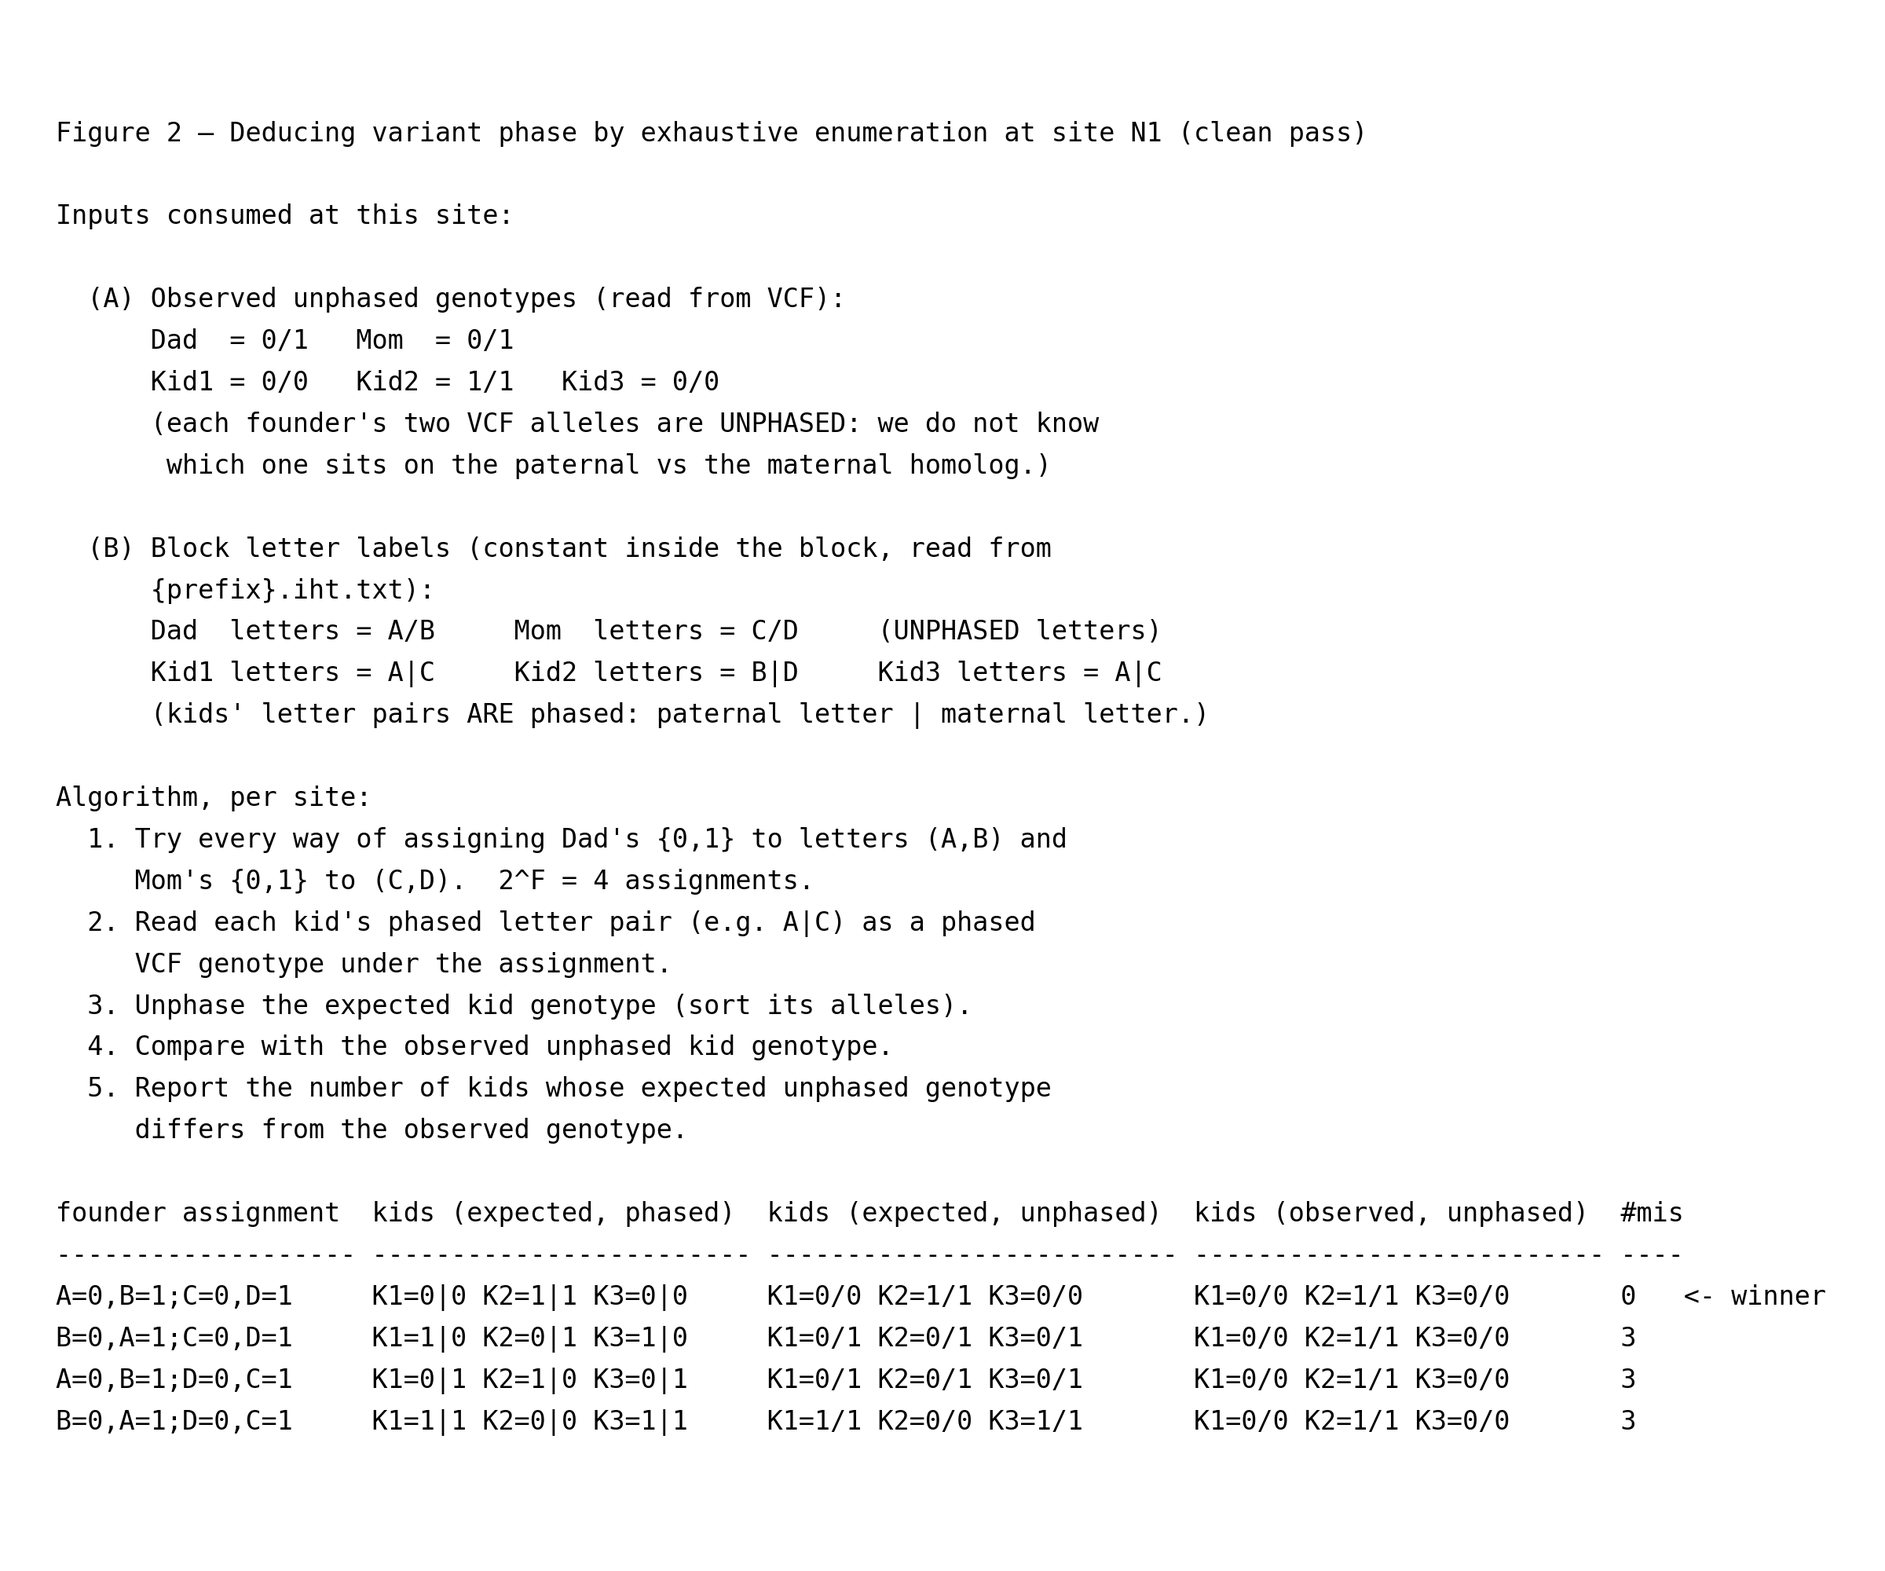
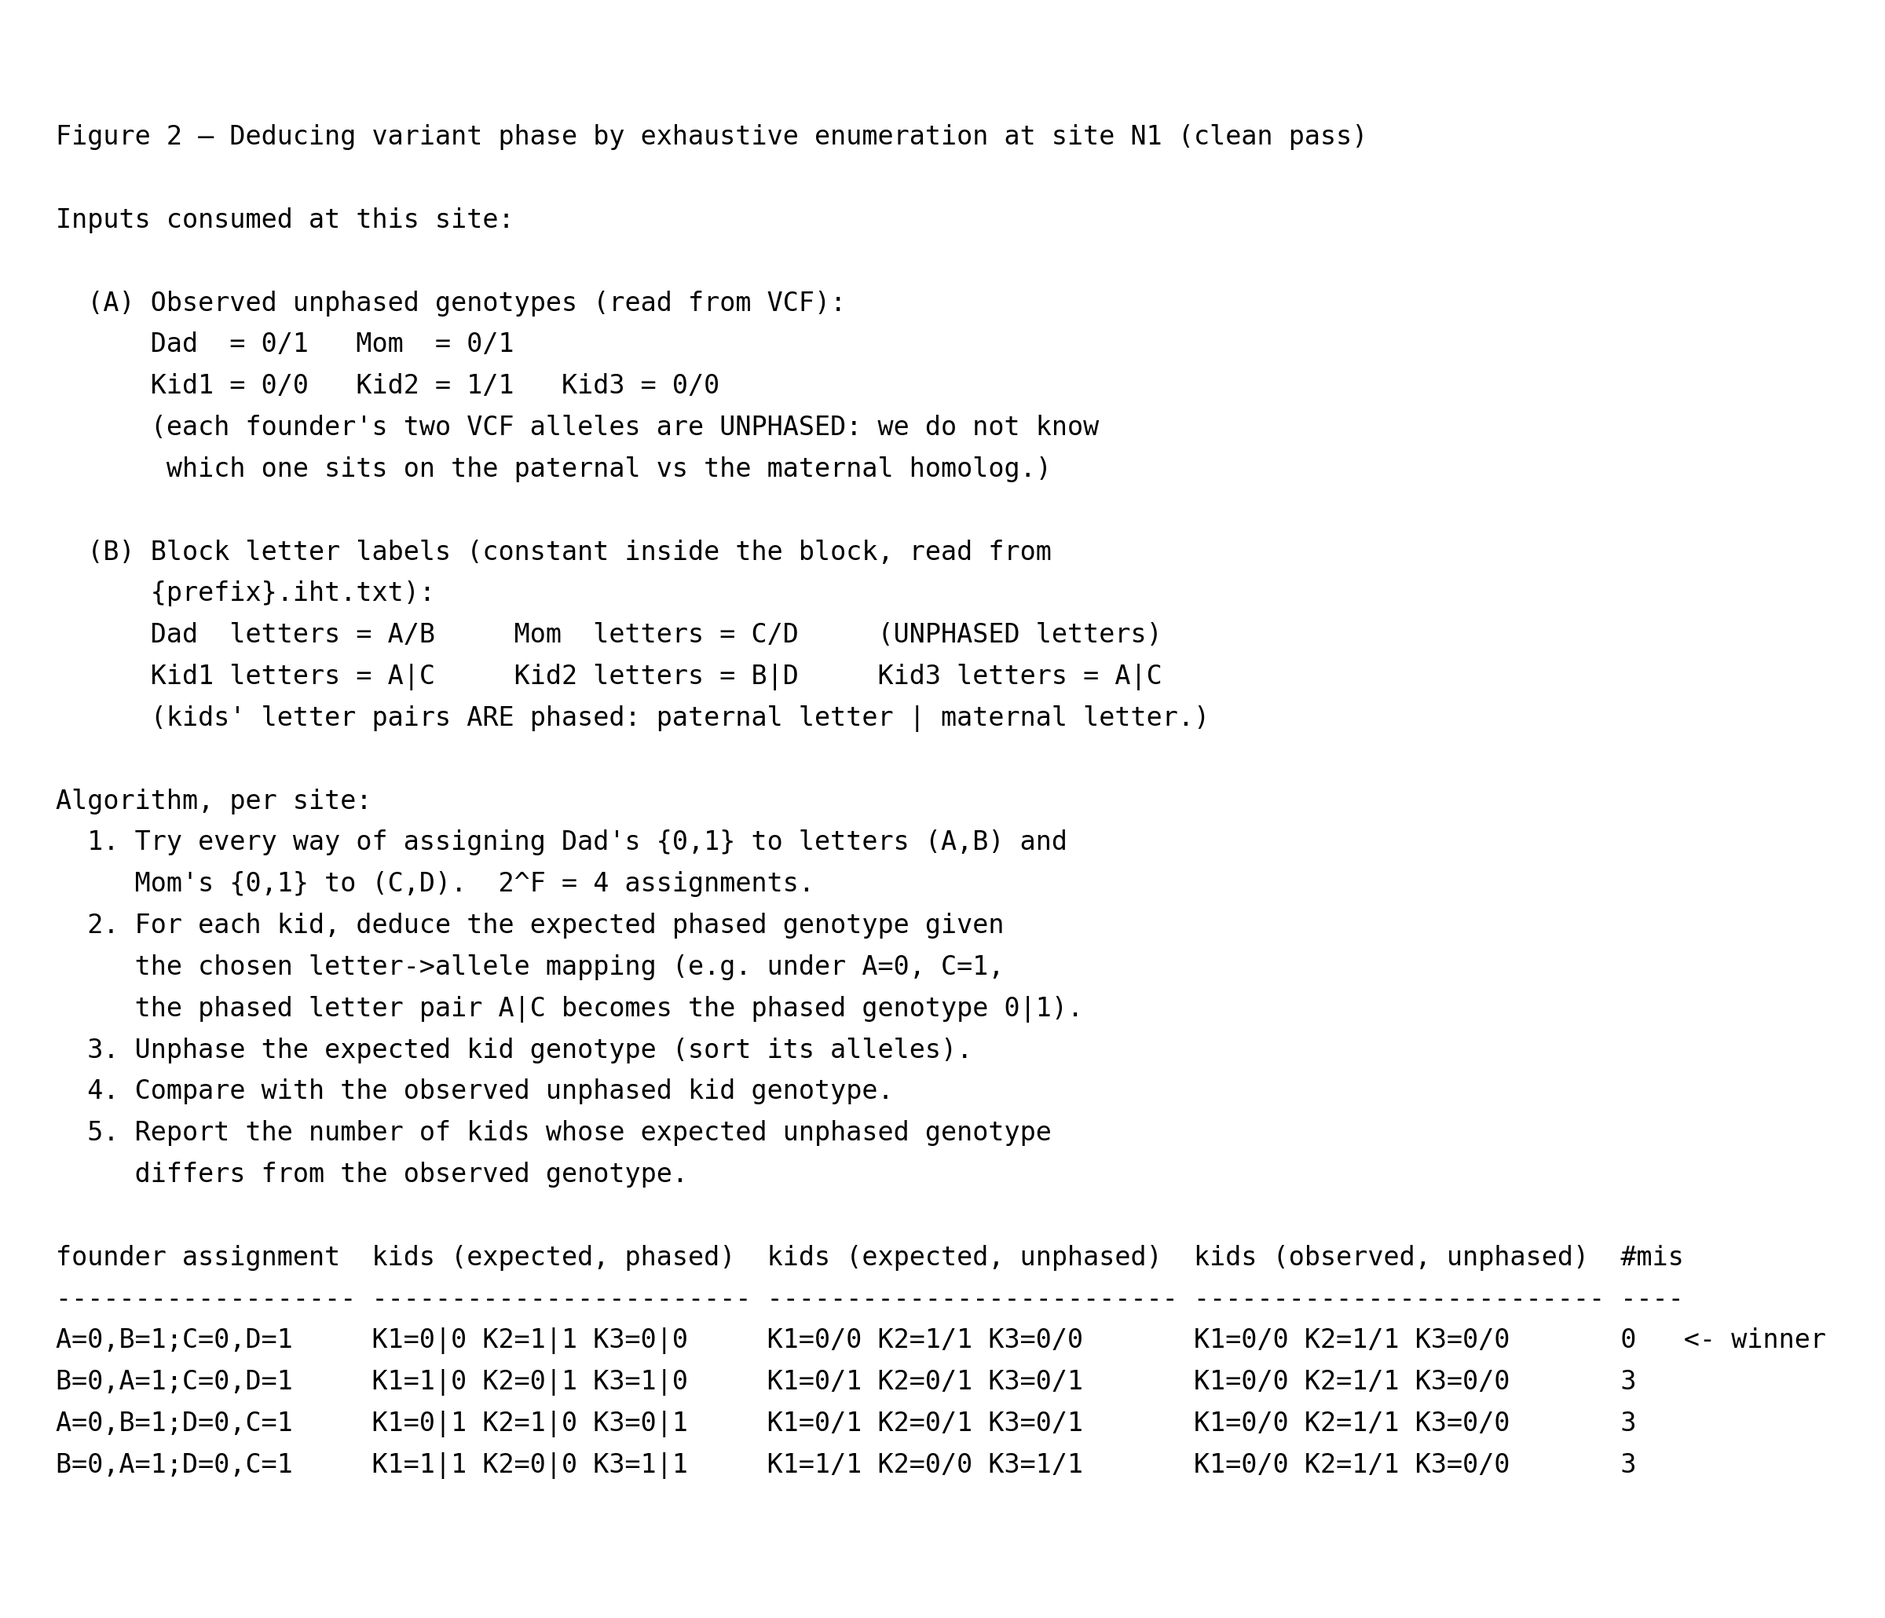
Spell out step 2 of the Fig 2 algorithm
Expand the terse "Read each kid's phased letter pair as a phased
VCF genotype under the assignment" into an explicit per-kid
deduction under the chosen letter->allele mapping, with a worked
example (A=0, C=1 => A|C becomes 0|1).

diff --git a/wiki/generate_wiki.py b/wiki/generate_wiki.py
@@ -2709,8 +2709,9 @@ def component_3_concordance(out_dir: Path) -> None:
         "Algorithm, per site:",
         "  1. Try every way of assigning Dad's {0,1} to letters (A,B) and",
         "     Mom's {0,1} to (C,D).  2^F = 4 assignments.",
-        "  2. Read each kid's phased letter pair (e.g. A|C) as a phased",
-        "     VCF genotype under the assignment.",
+        "  2. For each kid, deduce the expected phased genotype given",
+        "     the chosen letter->allele mapping (e.g. under A=0, C=1,",
+        "     the phased letter pair A|C becomes the phased genotype 0|1).",
         "  3. Unphase the expected kid genotype (sort its alleles).",
         "  4. Compare with the observed unphased kid genotype.",
         "  5. Report the number of kids whose expected unphased genotype",

diff --git a/wiki/concordance/concordance.md b/wiki/concordance/concordance.md
@@ -6,16 +6,16 @@ off. `gtg-ped-map` emits only founder letters, and only at informative
 sites; it never reconstructs the 0/1 allele sequence of any haplotype.
 That job belongs to `gtg-concordance`, which re-reads the VCF for each
 IHT block and phases **every** variant using the block's letter map.
-All line numbers refer to commit `3d13665`. As in the other
+All line numbers refer to commit `397fc75`. As in the other
 walkthrough pages, each function link is followed by its call site in
 the driver — `main()` in
-[`gtg_concordance.rs`](https://github.com/Platinum-Pedigree-Consortium/Platinum-Pedigree-Inheritance/blob/3d1366561ca04c4aaeb035beb59856a3b0c11296/code/rust/src/bin/gtg_concordance.rs#L315) — so you can step through
+[`gtg_concordance.rs`](https://github.com/Platinum-Pedigree-Consortium/Platinum-Pedigree-Inheritance/blob/397fc75a1de5793d88160177f0c1979e61eb0daa/code/rust/src/bin/gtg_concordance.rs#L315) — so you can step through
 the driver source in parallel with this walkthrough.
 
 The toy simulation reuses the [left half of the nuclear-family block](https://github.com/petermchale/Platinum-Pedigree-Inheritance/blob/main/wiki/nuclear_family/fig4_2.png)
 (Kid1=(A,C), Kid2=(B,D), Kid3=(A,C)) and adds two sites where both
 parents are heterozygous. These are NON-informative for `gtg-ped-map`
-because [`unique_allele`](https://github.com/Platinum-Pedigree-Consortium/Platinum-Pedigree-Inheritance/blob/3d1366561ca04c4aaeb035beb59856a3b0c11296/code/rust/src/bin/map_builder.rs#L243) returns `None` at each
+because [`unique_allele`](https://github.com/Platinum-Pedigree-Consortium/Platinum-Pedigree-Inheritance/blob/397fc75a1de5793d88160177f0c1979e61eb0daa/code/rust/src/bin/map_builder.rs#L243) returns `None` at each
 of them, but `gtg-concordance` still has to phase them. One of the two
 sites carries an injected sequencing error so both the clean-pass
 (`pass.vcf`) and error-quarantine (`fail.vcf`) code paths are
@@ -32,8 +32,8 @@ markdown file itself.
 
 The driver reads the `{prefix}.iht.txt` file produced by
 `gtg-ped-map` using
-[`parse_ihtv2_file`](https://github.com/Platinum-Pedigree-Consortium/Platinum-Pedigree-Inheritance/blob/3d1366561ca04c4aaeb035beb59856a3b0c11296/code/rust/src/iht.rs#L606) (driver call at
-[`gtg_concordance.rs:405`](https://github.com/Platinum-Pedigree-Consortium/Platinum-Pedigree-Inheritance/blob/3d1366561ca04c4aaeb035beb59856a3b0c11296/code/rust/src/bin/gtg_concordance.rs#L405)). The parser walks
+[`parse_ihtv2_file`](https://github.com/Platinum-Pedigree-Consortium/Platinum-Pedigree-Inheritance/blob/397fc75a1de5793d88160177f0c1979e61eb0daa/code/rust/src/iht.rs#L606) (driver call at
+[`gtg_concordance.rs:405`](https://github.com/Platinum-Pedigree-Consortium/Platinum-Pedigree-Inheritance/blob/397fc75a1de5793d88160177f0c1979e61eb0daa/code/rust/src/bin/gtg_concordance.rs#L405)). The parser walks
 the file line by line: the first three whitespace-separated fields of
 each row are the `chrom`, `start`, and `end` of the block's BED
 interval, the trailing columns carry the per-block marker count, and
@@ -50,22 +50,22 @@ The driver then iterates over the returned `Vec<IhtVec>` one block at
 a time. For each block it converts the BED coordinates to the
 `(chrom_id, start, end)` triple expected by `rust-htslib` and calls
 `reader.fetch(...)` at
-[`gtg_concordance.rs:427`](https://github.com/Platinum-Pedigree-Consortium/Platinum-Pedigree-Inheritance/blob/3d1366561ca04c4aaeb035beb59856a3b0c11296/code/rust/src/bin/gtg_concordance.rs#L427) to position the VCF
+[`gtg_concordance.rs:427`](https://github.com/Platinum-Pedigree-Consortium/Platinum-Pedigree-Inheritance/blob/397fc75a1de5793d88160177f0c1979e61eb0daa/code/rust/src/bin/gtg_concordance.rs#L427) to position the VCF
 reader on the first record that falls inside the block — silently
 skipping the block if the fetch fails (e.g. the contig is absent from
 the VCF index). Every record returned by the resulting
 `reader.records()` iterator is fed through
-[`parse_vcf_record`](https://github.com/Platinum-Pedigree-Consortium/Platinum-Pedigree-Inheritance/blob/3d1366561ca04c4aaeb035beb59856a3b0c11296/code/rust/src/bin/gtg_concordance.rs#L116) at
-[`gtg_concordance.rs:440`](https://github.com/Platinum-Pedigree-Consortium/Platinum-Pedigree-Inheritance/blob/3d1366561ca04c4aaeb035beb59856a3b0c11296/code/rust/src/bin/gtg_concordance.rs#L440), which pulls each
+[`parse_vcf_record`](https://github.com/Platinum-Pedigree-Consortium/Platinum-Pedigree-Inheritance/blob/397fc75a1de5793d88160177f0c1979e61eb0daa/code/rust/src/bin/gtg_concordance.rs#L116) at
+[`gtg_concordance.rs:440`](https://github.com/Platinum-Pedigree-Consortium/Platinum-Pedigree-Inheritance/blob/397fc75a1de5793d88160177f0c1979e61eb0daa/code/rust/src/bin/gtg_concordance.rs#L440), which pulls each
 sample's depth and (unphased, index-sorted) allele vector into a
 `HashMap<String, (depth, Vec<GenotypeAllele>)>`. Low-quality records
 (`record.qual() < args.qual`) and records with missing alleles are
 short-circuited straight to `{prefix}.fail.vcf` at
-[`gtg_concordance.rs:444`](https://github.com/Platinum-Pedigree-Consortium/Platinum-Pedigree-Inheritance/blob/3d1366561ca04c4aaeb035beb59856a3b0c11296/code/rust/src/bin/gtg_concordance.rs#L444) and
-[`gtg_concordance.rs:450`](https://github.com/Platinum-Pedigree-Consortium/Platinum-Pedigree-Inheritance/blob/3d1366561ca04c4aaeb035beb59856a3b0c11296/code/rust/src/bin/gtg_concordance.rs#L450); everything else is
+[`gtg_concordance.rs:444`](https://github.com/Platinum-Pedigree-Consortium/Platinum-Pedigree-Inheritance/blob/397fc75a1de5793d88160177f0c1979e61eb0daa/code/rust/src/bin/gtg_concordance.rs#L444) and
+[`gtg_concordance.rs:450`](https://github.com/Platinum-Pedigree-Consortium/Platinum-Pedigree-Inheritance/blob/397fc75a1de5793d88160177f0c1979e61eb0daa/code/rust/src/bin/gtg_concordance.rs#L450); everything else is
 handed to the per-site phasing step —
-[`find_best_phase_orientation`](https://github.com/Platinum-Pedigree-Consortium/Platinum-Pedigree-Inheritance/blob/3d1366561ca04c4aaeb035beb59856a3b0c11296/code/rust/src/bin/gtg_concordance.rs#L252) at
-[`gtg_concordance.rs:454`](https://github.com/Platinum-Pedigree-Consortium/Platinum-Pedigree-Inheritance/blob/3d1366561ca04c4aaeb035beb59856a3b0c11296/code/rust/src/bin/gtg_concordance.rs#L454) — including variants
+[`find_best_phase_orientation`](https://github.com/Platinum-Pedigree-Consortium/Platinum-Pedigree-Inheritance/blob/397fc75a1de5793d88160177f0c1979e61eb0daa/code/rust/src/bin/gtg_concordance.rs#L252) at
+[`gtg_concordance.rs:454`](https://github.com/Platinum-Pedigree-Consortium/Platinum-Pedigree-Inheritance/blob/397fc75a1de5793d88160177f0c1979e61eb0daa/code/rust/src/bin/gtg_concordance.rs#L454) — including variants
 that `gtg-ped-map` could not use because neither parent has a unique
 allele.
 
@@ -75,7 +75,7 @@ allele.
 
 The two sites in Figure 1 are both homozygous-absent for informative
 patterns: dad is `0/1` and so is mom. `gtg-ped-map`'s
-[`unique_allele`](https://github.com/Platinum-Pedigree-Consortium/Platinum-Pedigree-Inheritance/blob/3d1366561ca04c4aaeb035beb59856a3b0c11296/code/rust/src/bin/map_builder.rs#L243) test therefore returns `None`
+[`unique_allele`](https://github.com/Platinum-Pedigree-Consortium/Platinum-Pedigree-Inheritance/blob/397fc75a1de5793d88160177f0c1979e61eb0daa/code/rust/src/bin/map_builder.rs#L243) test therefore returns `None`
 at both sites, so neither contributes to block construction. They
 still enter `gtg-concordance`'s phasing loop; the per-site machinery
 described below is what turns their unphased genotypes into either a
@@ -90,25 +90,25 @@ Figure 3 covers, where exhaustive enumeration finds no consistent phase.
 ![Figure 2 — Deducing variant phase by exhaustive enumeration at site N1 (clean pass)](fig2.png)
 
 At every record inside a block,
-[`find_best_phase_orientation`](https://github.com/Platinum-Pedigree-Consortium/Platinum-Pedigree-Inheritance/blob/3d1366561ca04c4aaeb035beb59856a3b0c11296/code/rust/src/bin/gtg_concordance.rs#L252) (driver call at
-[`gtg_concordance.rs:454`](https://github.com/Platinum-Pedigree-Consortium/Platinum-Pedigree-Inheritance/blob/3d1366561ca04c4aaeb035beb59856a3b0c11296/code/rust/src/bin/gtg_concordance.rs#L454)) enumerates the
+[`find_best_phase_orientation`](https://github.com/Platinum-Pedigree-Consortium/Platinum-Pedigree-Inheritance/blob/397fc75a1de5793d88160177f0c1979e61eb0daa/code/rust/src/bin/gtg_concordance.rs#L252) (driver call at
+[`gtg_concordance.rs:454`](https://github.com/Platinum-Pedigree-Consortium/Platinum-Pedigree-Inheritance/blob/397fc75a1de5793d88160177f0c1979e61eb0daa/code/rust/src/bin/gtg_concordance.rs#L454)) enumerates the
 `2^F=4` letter-allele mappings produced by
-[`Iht::founder_phase_orientations`](https://github.com/Platinum-Pedigree-Consortium/Platinum-Pedigree-Inheritance/blob/3d1366561ca04c4aaeb035beb59856a3b0c11296/code/rust/src/iht.rs#L492) (invoked
+[`Iht::founder_phase_orientations`](https://github.com/Platinum-Pedigree-Consortium/Platinum-Pedigree-Inheritance/blob/397fc75a1de5793d88160177f0c1979e61eb0daa/code/rust/src/iht.rs#L492) (invoked
 inside `find_best_phase_orientation` at
-[`gtg_concordance.rs:256`](https://github.com/Platinum-Pedigree-Consortium/Platinum-Pedigree-Inheritance/blob/3d1366561ca04c4aaeb035beb59856a3b0c11296/code/rust/src/bin/gtg_concordance.rs#L256)). Each mapping
+[`gtg_concordance.rs:256`](https://github.com/Platinum-Pedigree-Consortium/Platinum-Pedigree-Inheritance/blob/397fc75a1de5793d88160177f0c1979e61eb0daa/code/rust/src/bin/gtg_concordance.rs#L256)). Each mapping
 chooses which of dad's two sorted VCF alleles is tagged `A` vs `B`
 and which of mom's two is tagged `C` vs `D` — recall that the
 founders' letters are *unphased* (A/B, C/D), whereas each kid's
 letter pair is *phased* (paternal letter | maternal letter) by
 construction of the block. Under a given mapping,
-[`Iht::assign_genotypes`](https://github.com/Platinum-Pedigree-Consortium/Platinum-Pedigree-Inheritance/blob/3d1366561ca04c4aaeb035beb59856a3b0c11296/code/rust/src/iht.rs#L442) (driver call at
-[`gtg_concordance.rs:487`](https://github.com/Platinum-Pedigree-Consortium/Platinum-Pedigree-Inheritance/blob/3d1366561ca04c4aaeb035beb59856a3b0c11296/code/rust/src/bin/gtg_concordance.rs#L487) on the failing branch
-and [`gtg_concordance.rs:514`](https://github.com/Platinum-Pedigree-Consortium/Platinum-Pedigree-Inheritance/blob/3d1366561ca04c4aaeb035beb59856a3b0c11296/code/rust/src/bin/gtg_concordance.rs#L514) on the passing
+[`Iht::assign_genotypes`](https://github.com/Platinum-Pedigree-Consortium/Platinum-Pedigree-Inheritance/blob/397fc75a1de5793d88160177f0c1979e61eb0daa/code/rust/src/iht.rs#L442) (driver call at
+[`gtg_concordance.rs:487`](https://github.com/Platinum-Pedigree-Consortium/Platinum-Pedigree-Inheritance/blob/397fc75a1de5793d88160177f0c1979e61eb0daa/code/rust/src/bin/gtg_concordance.rs#L487) on the failing branch
+and [`gtg_concordance.rs:514`](https://github.com/Platinum-Pedigree-Consortium/Platinum-Pedigree-Inheritance/blob/397fc75a1de5793d88160177f0c1979e61eb0daa/code/rust/src/bin/gtg_concordance.rs#L514) on the passing
 branch) reads each kid's phased letter pair as a phased VCF genotype.
 That genotype is then unphased (alleles sorted) and compared against
 the observed unphased kid genotype by
-[`compare_genotype_maps`](https://github.com/Platinum-Pedigree-Consortium/Platinum-Pedigree-Inheritance/blob/3d1366561ca04c4aaeb035beb59856a3b0c11296/code/rust/src/bin/gtg_concordance.rs#L213) (driver call at
-[`gtg_concordance.rs:268`](https://github.com/Platinum-Pedigree-Consortium/Platinum-Pedigree-Inheritance/blob/3d1366561ca04c4aaeb035beb59856a3b0c11296/code/rust/src/bin/gtg_concordance.rs#L268)), which counts how
+[`compare_genotype_maps`](https://github.com/Platinum-Pedigree-Consortium/Platinum-Pedigree-Inheritance/blob/397fc75a1de5793d88160177f0c1979e61eb0daa/code/rust/src/bin/gtg_concordance.rs#L213) (driver call at
+[`gtg_concordance.rs:268`](https://github.com/Platinum-Pedigree-Consortium/Platinum-Pedigree-Inheritance/blob/397fc75a1de5793d88160177f0c1979e61eb0daa/code/rust/src/bin/gtg_concordance.rs#L268)), which counts how
 many kids disagree.
 
 At site `N1`, exactly one of the four mappings explains every kid
@@ -126,10 +126,10 @@ mismatches — the best any mapping can do is 1 sample(s)
 disagreeing. `find_best_phase_orientation` therefore returns a
 non-empty mismatch list, the driver writes the record to
 `{prefix}.fail.vcf` at
-[`gtg_concordance.rs:507`](https://github.com/Platinum-Pedigree-Consortium/Platinum-Pedigree-Inheritance/blob/3d1366561ca04c4aaeb035beb59856a3b0c11296/code/rust/src/bin/gtg_concordance.rs#L507) (alongside the
+[`gtg_concordance.rs:507`](https://github.com/Platinum-Pedigree-Consortium/Platinum-Pedigree-Inheritance/blob/397fc75a1de5793d88160177f0c1979e61eb0daa/code/rust/src/bin/gtg_concordance.rs#L507) (alongside the
 low-quality and no-call records that were already routed to fail at
-[`gtg_concordance.rs:444`](https://github.com/Platinum-Pedigree-Consortium/Platinum-Pedigree-Inheritance/blob/3d1366561ca04c4aaeb035beb59856a3b0c11296/code/rust/src/bin/gtg_concordance.rs#L444) and
-[`gtg_concordance.rs:450`](https://github.com/Platinum-Pedigree-Consortium/Platinum-Pedigree-Inheritance/blob/3d1366561ca04c4aaeb035beb59856a3b0c11296/code/rust/src/bin/gtg_concordance.rs#L450)), and the offending
+[`gtg_concordance.rs:444`](https://github.com/Platinum-Pedigree-Consortium/Platinum-Pedigree-Inheritance/blob/397fc75a1de5793d88160177f0c1979e61eb0daa/code/rust/src/bin/gtg_concordance.rs#L444) and
+[`gtg_concordance.rs:450`](https://github.com/Platinum-Pedigree-Consortium/Platinum-Pedigree-Inheritance/blob/397fc75a1de5793d88160177f0c1979e61eb0daa/code/rust/src/bin/gtg_concordance.rs#L450)), and the offending
 sample names are appended to `{prefix}.failed_sites.txt`. If
 exactly one sample is the culprit across the whole block, the failure
 is counted as a "singleton" — a strong signal of a sequencing error
@@ -157,9 +157,9 @@ writes founder letters per individual per block.
 `gtg-concordance` (`gtg_concordance.rs`) is a pure phasing/QC tool
 that uses those structural labels to assign alleles at every site in
 the block: the passing records are phased via
-[`Iht::assign_genotypes`](https://github.com/Platinum-Pedigree-Consortium/Platinum-Pedigree-Inheritance/blob/3d1366561ca04c4aaeb035beb59856a3b0c11296/code/rust/src/iht.rs#L442) and emitted to
+[`Iht::assign_genotypes`](https://github.com/Platinum-Pedigree-Consortium/Platinum-Pedigree-Inheritance/blob/397fc75a1de5793d88160177f0c1979e61eb0daa/code/rust/src/iht.rs#L442) and emitted to
 `{prefix}.pass.vcf` at
-[`gtg_concordance.rs:534`](https://github.com/Platinum-Pedigree-Consortium/Platinum-Pedigree-Inheritance/blob/3d1366561ca04c4aaeb035beb59856a3b0c11296/code/rust/src/bin/gtg_concordance.rs#L534), and the failing
+[`gtg_concordance.rs:534`](https://github.com/Platinum-Pedigree-Consortium/Platinum-Pedigree-Inheritance/blob/397fc75a1de5793d88160177f0c1979e61eb0daa/code/rust/src/bin/gtg_concordance.rs#L534), and the failing
 records are quarantined to `{prefix}.fail.vcf` as described above.
 The split is the answer to "does `gtg-ped-map` reconstruct the 0/1
 allele sequence of each haplotype?": no, and deliberately — that is
